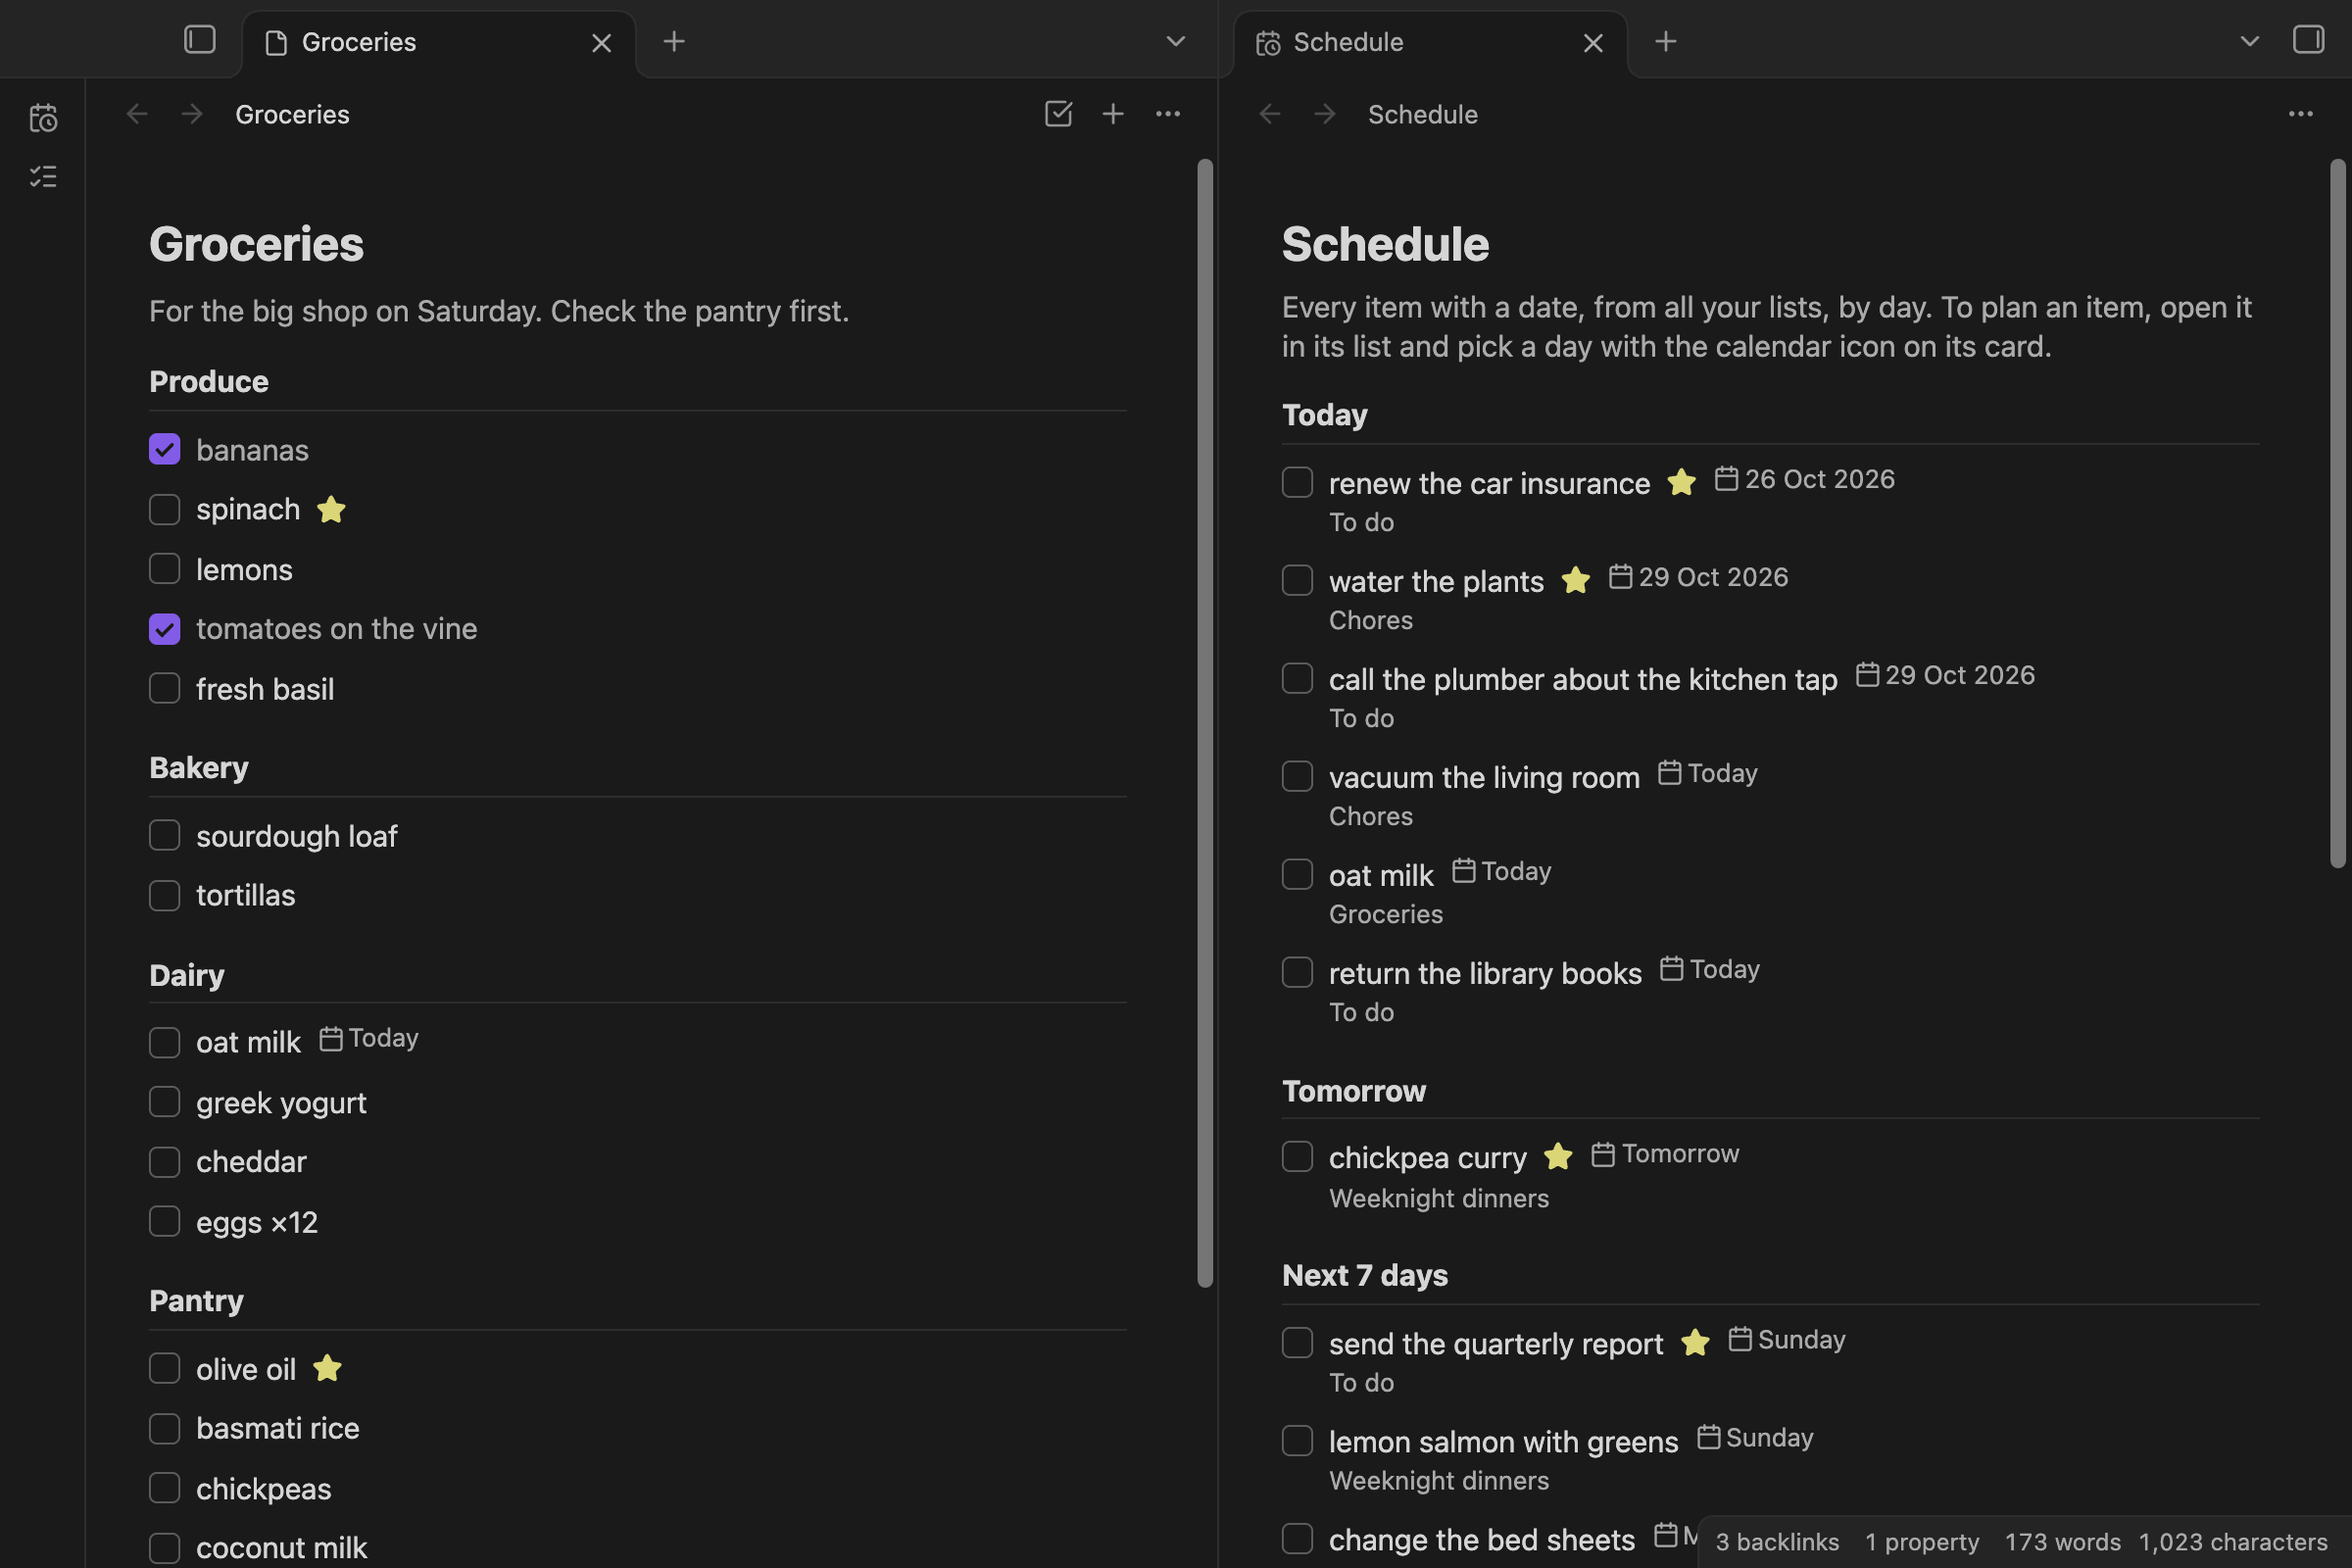
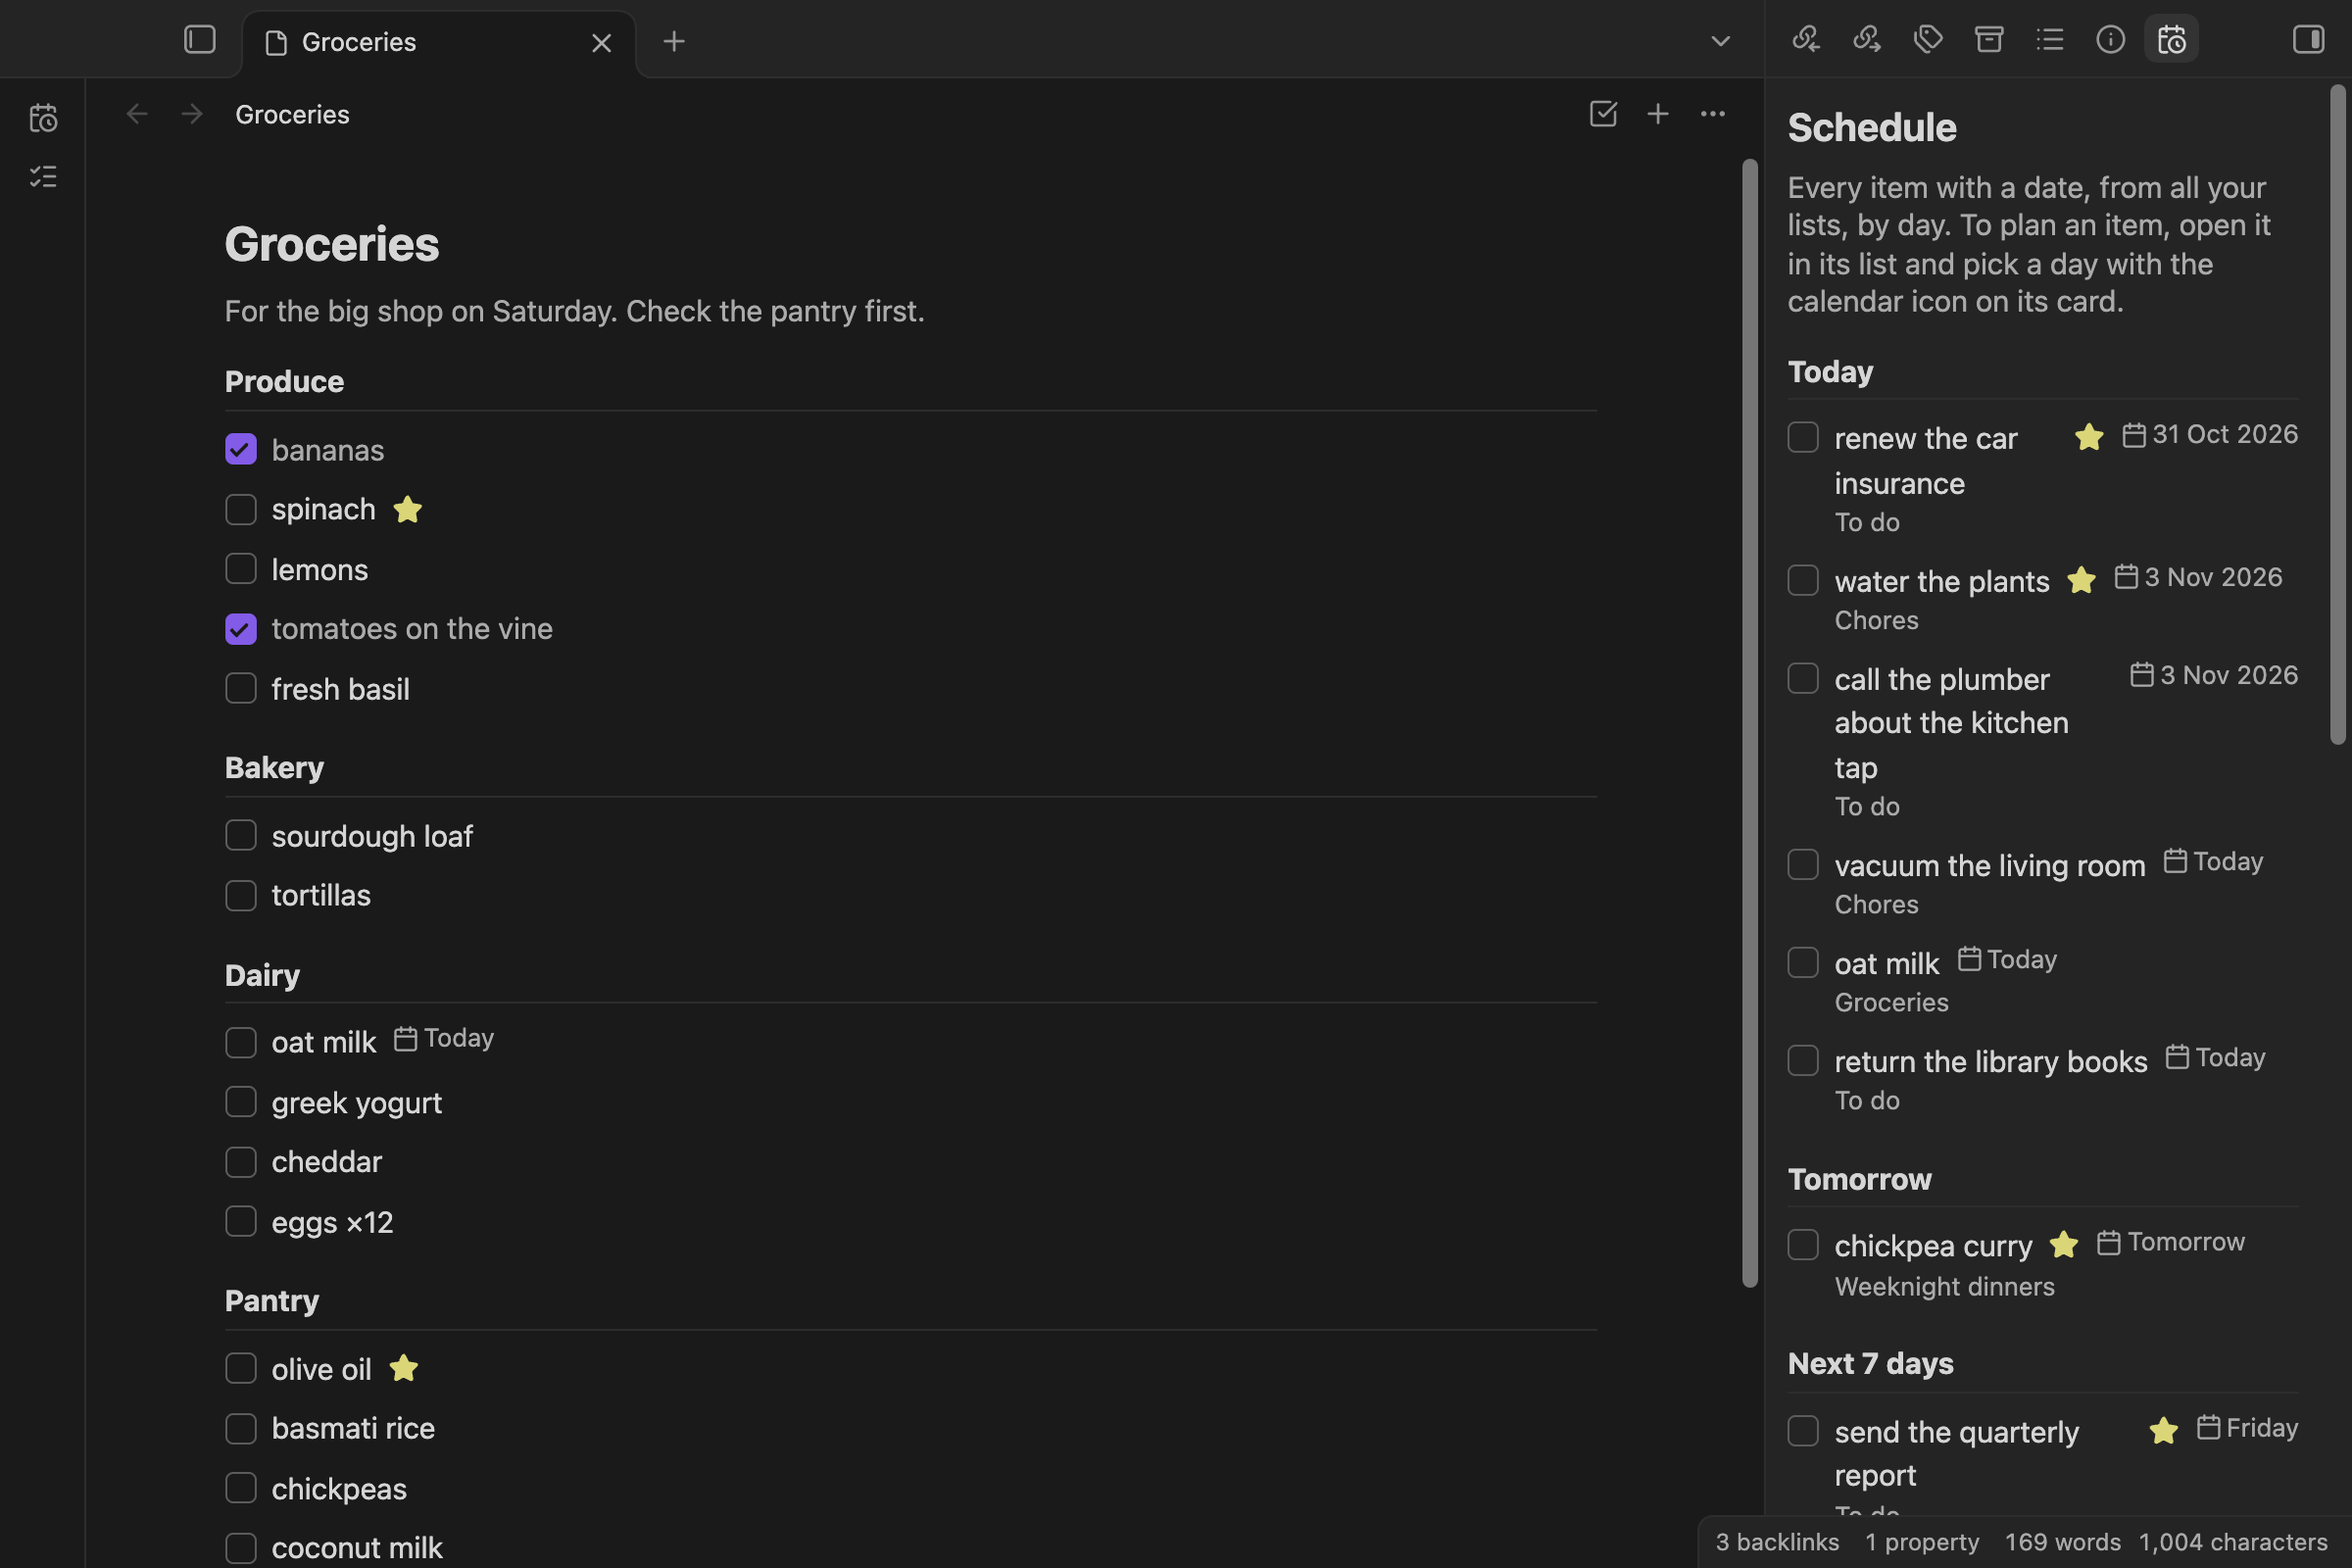
Retake the Schedule's GIF and listing shots in the right sidebar

diff --git a/README.md b/README.md
@@ -28,7 +28,7 @@ Each item has a title, a date, a star and powerful notes, with a toolbar for for
 
 The Schedule shows the dated items from all your lists.
 
-![The Schedule opens from the ribbon and scrolls through dated items from several lists, under Today, Tomorrow, Next 7 days and the start of Later](https://raw.githubusercontent.com/princelundgren/PrinceListsObsidianPlugin/main/docs/images/schedule.gif)
+![The Schedule opens from the ribbon in the right sidebar and scrolls through dated items from several lists, under Today, Tomorrow, Next 7 days and the start of Later](https://raw.githubusercontent.com/princelundgren/PrinceListsObsidianPlugin/main/docs/images/schedule.gif)
 
 It works great on your phone too.
 
